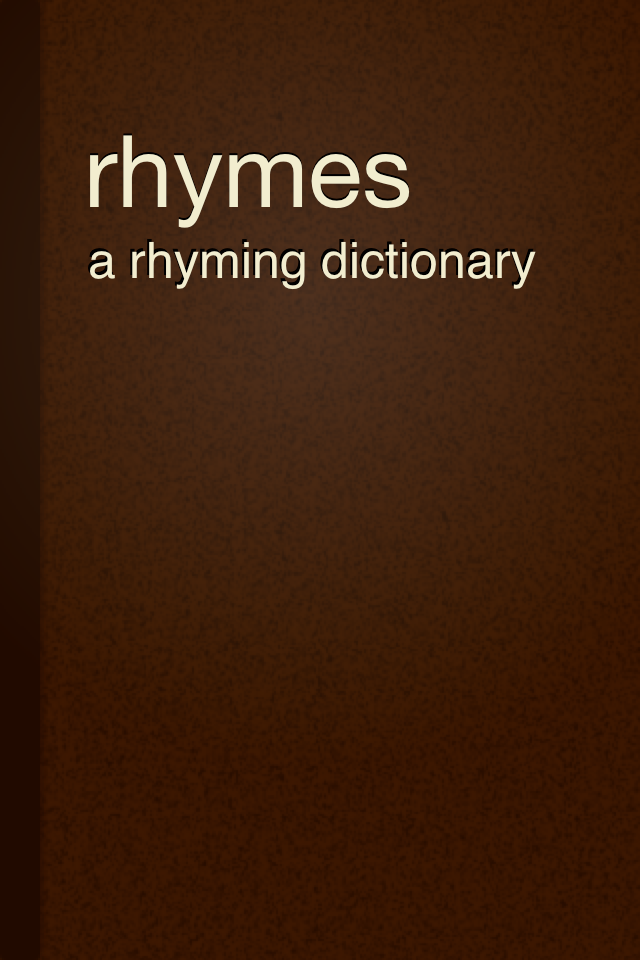
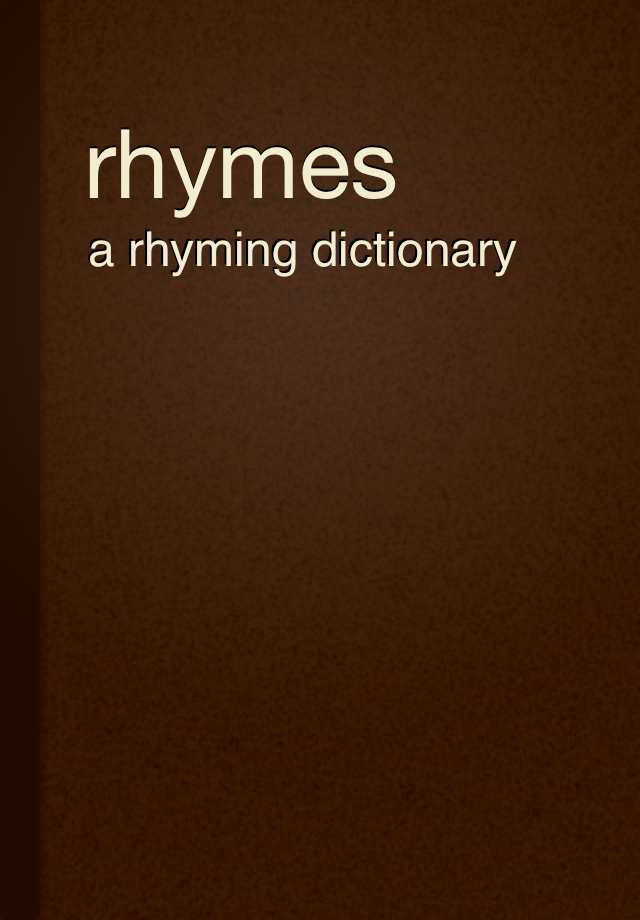
Fixed startup images.

Changed region(s): [[0.1562, 0.1217, 0.8438, 0.3043], [0.125, 0.1826, 0.1562, 0.213]]

diff --git a/index.html b/index.html
@@ -5,7 +5,8 @@
   <meta name="viewport" content="width=device-width,user-scalable=no">
   <meta name="apple-mobile-web-app-capable" content="yes" />
   <link rel="apple-touch-icon" href="images/apple-touch-icon.png" />
-  <link rel="apple-touch-startup-image" href="images/startup-image-640x960.png">
+  <link rel="apple-touch-startup-image" href="images/startup-image.png">
+  <link rel="apple-touch-startup-image" sizes="640x960" href="images/startup-image-640x960.png">
 
   <link rel="stylesheet" href="stylesheets/styles.css">
   <script src="javascripts/serenade.0.1.3.min.js"></script>
